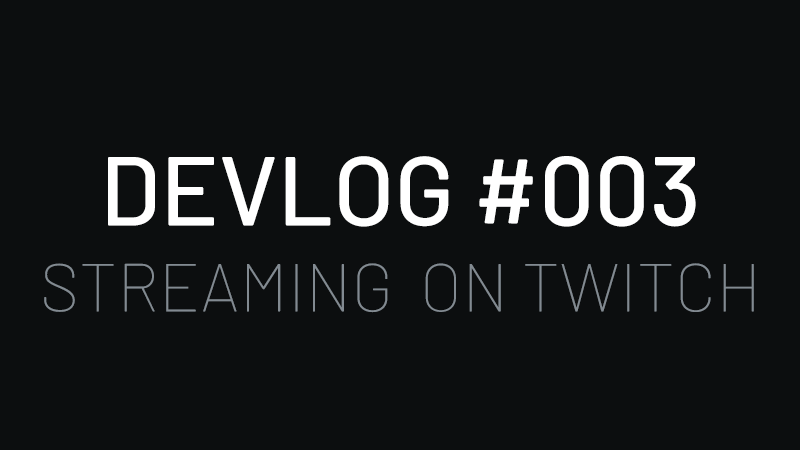
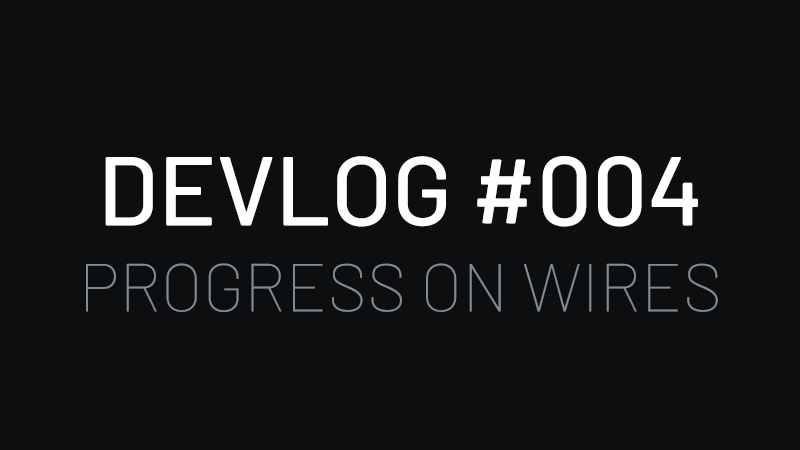
Update changelog & artwork

diff --git a/src/js/changelog.js b/src/js/changelog.js
@@ -10,7 +10,7 @@ export const CHANGELOG = [
             "Added keybinding to close menus (by isaisstillalive / Sandwichs-del)",
             "Fix rare crash regarding the buildings toolbar (by isaisstillalive)",
             "Fixed some phrases (By EnderDoom77)",
-
+            "Zoom towards mouse cursor (by Dimava)",
             "Updated the soundtrack again, it is now 20 minutes in total!",
             "Updated and added new translations (Thanks to all contributors!)",
         ],
